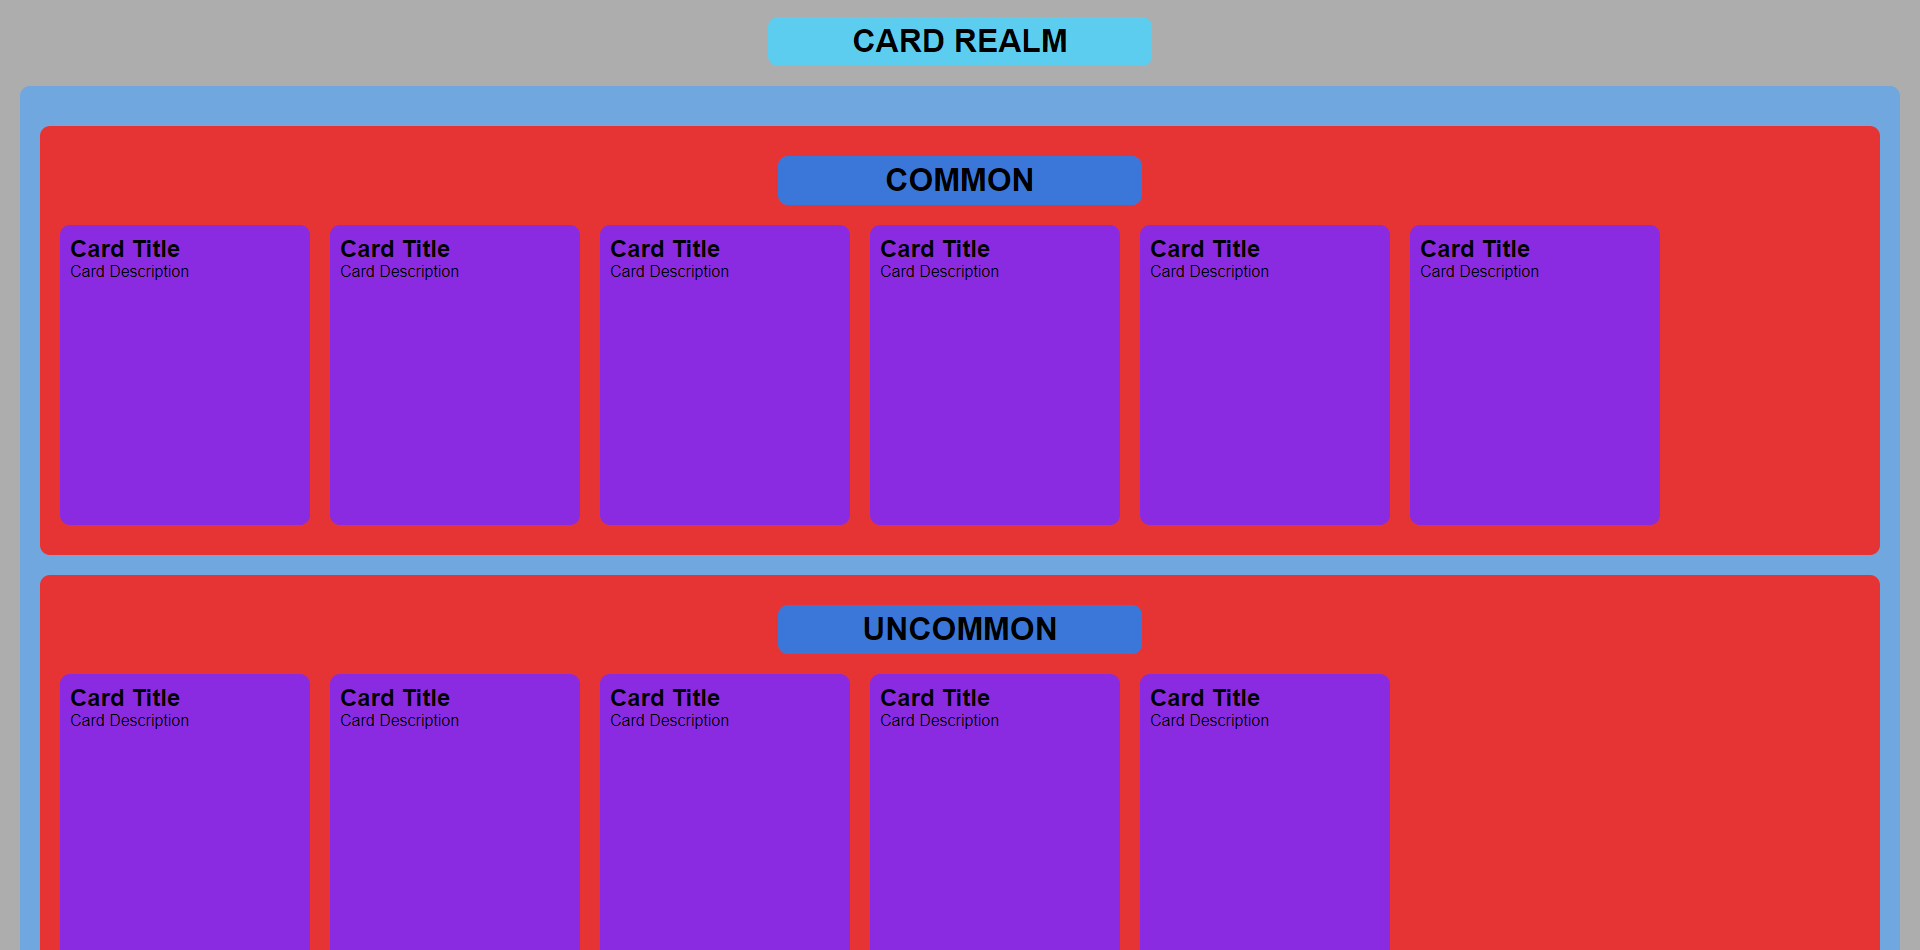
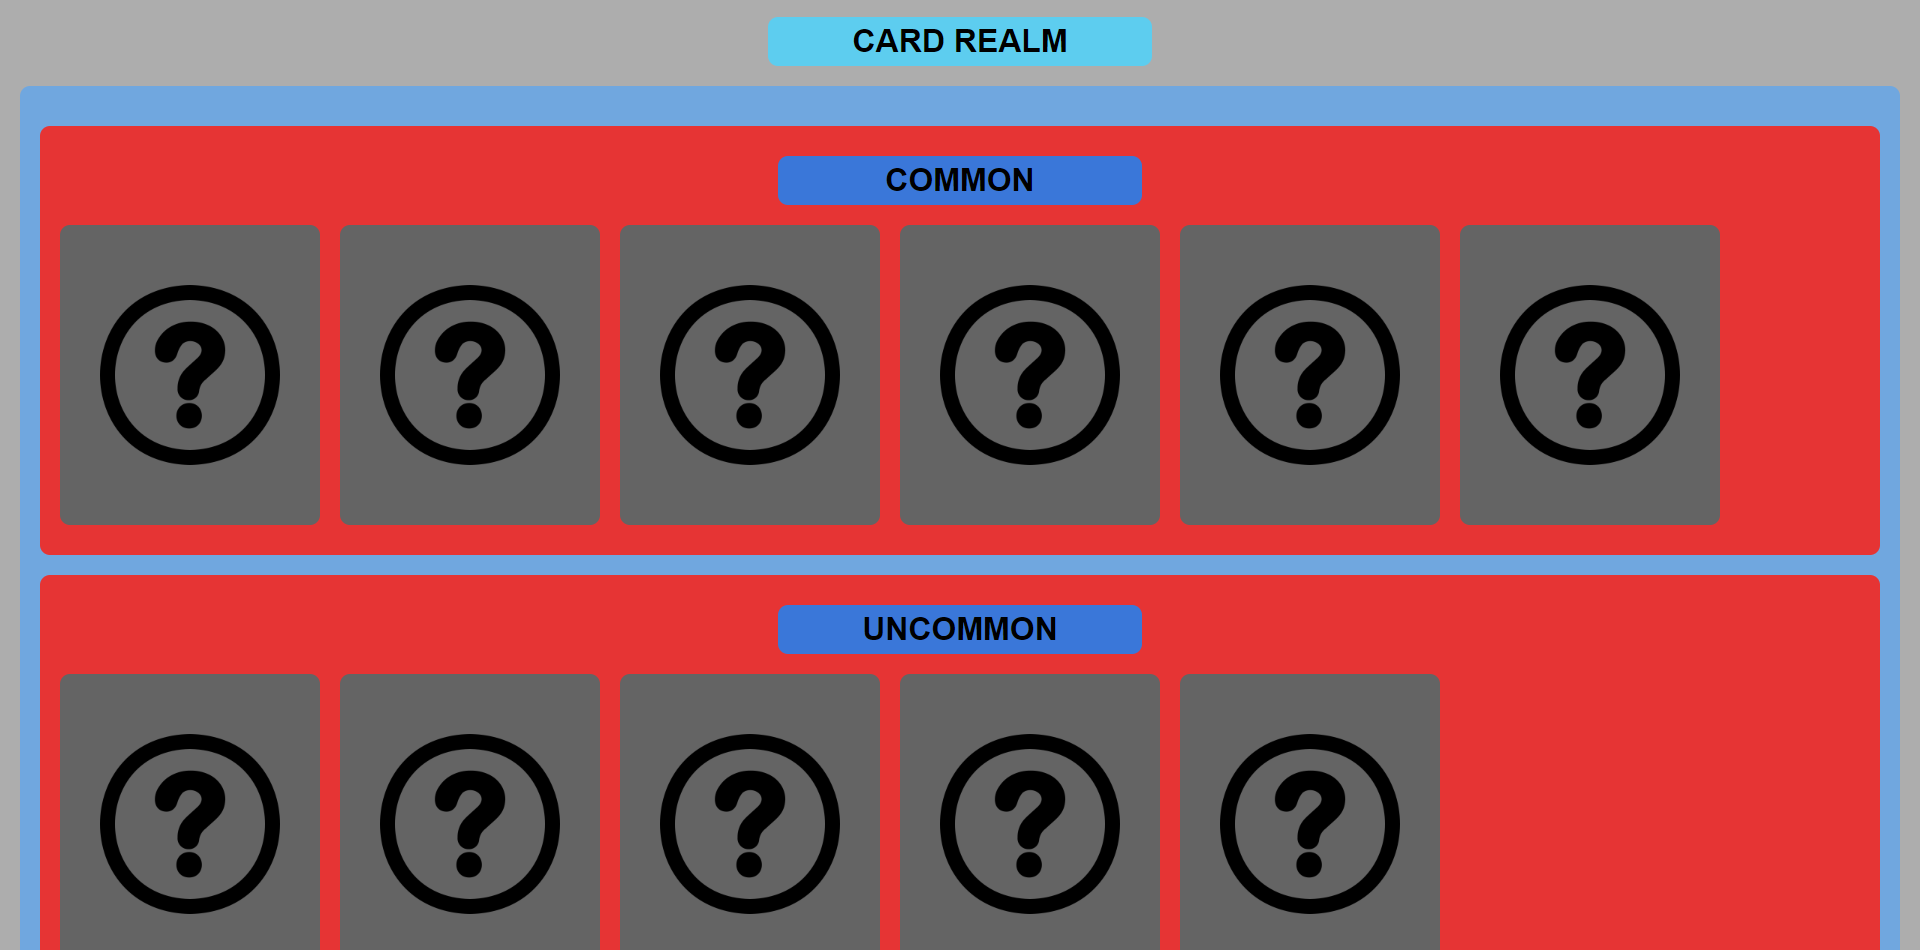
CARD REALM 0.4.0
Add tiersData.json
Add unknown.png
Update App.js
Update index.css
Update index.html

diff --git a/src/components/App.js b/src/components/App.js
@@ -1,35 +1,44 @@
-function App() {
+import { useState } from 'react';
+import TiersData from '../data/tiersData';
+
+export default function App() {
+  const tiers = TiersData.tiers;
+
   return (
     <div className="app">
       <div className="title">CARD REALM</div>
       <div className="collection">
-        <Tier tier="COMMON" cardsNumber={6} />
-        <Tier tier="UNCOMMON" cardsNumber={5} />
-        <Tier tier="RARE" cardsNumber={4} />
-        <Tier tier="SUPER RARE" cardsNumber={3} />
+        {tiers.map((tier) => (<Tier key={tier.id} tier={tier} />))}
       </div>
     </div>
   );
 }
 
-function Tier({ tier, cardsNumber }) {
+function Tier({ tier }) {
   return (
     <div className="tier">
-      <div className="tier-title">{tier}</div>
+      <div className="tier-title">{tier.name}</div>
       <div className="cards">
-        {Array(cardsNumber).fill(<Card />)}
+        {tier.cards.map((card) => (<Card key={tier.id + "-" + card.id} card={card} />))}
       </div>
     </div>
   );
 }
 
-function Card() {
+function Card({ card }) {
+  const [cantity, setCantity] = useState(0);
+  // TODO: Remove the comment
+  // console.log(card.name);
+  // if (card.name === "Card C1" && cantity === 0) {
+  //   setCantity(1);
+  // }
+
   return (
-    <div className="card">
-      <h2 className="card-title">Card Title</h2>
-      <p className="card-description">Card Description</p>
-    </div>
+    <>
+      {cantity !== 0 ?
+        <div className="card card-discovered"><h2 className="card-title">{card.name}</h2></div>
+        :
+        <div className="card card-not-discovered"><img className="card-not-discovered-img" src="/img/unknown.png" alt="Card not discovered" /></div>}
+    </>
   );
 }
-
-export default App;

diff --git a/public/index.html b/public/index.html
@@ -6,7 +6,7 @@
     <meta name="viewport" content="width=device-width, initial-scale=1" />
     <meta name="theme-color" content="#000000" />
     <meta name="Card Realm" content="Web site created using create-react-app" />
-    <link rel="apple-touch-icon" href="%PUBLIC_URL%/card_realm_icon.png" />
+    <link rel="apple-touch-icon" href="%PUBLIC_URL%/img/card_realm_icon.png" />
     <!--
       manifest.json provides metadata used when your web app is installed on a
       user's mobile device or desktop. See https://developers.google.com/web/fundamentals/web-app-manifest/

diff --git a/src/index.css b/src/index.css
@@ -55,10 +55,24 @@ body::-webkit-scrollbar {
 }
 
 .card {
-  background-color: blueviolet;
   margin: 0 10px;
   padding: 10px;
   border-radius: 10px;
-  width: 250px;
+  width: 260px;
   height: 300px;
+  display: flex;
+  justify-content: center;
+  align-items: center;
+}
+
+.card-discovered {
+  background-color: rgb(47, 203, 38);
+}
+
+.card-not-discovered {
+  background-color: rgb(100, 100, 100);
+}
+
+.card-not-discovered-img {
+  width: 80%;
 }

diff --git a/README.md b/README.md
@@ -10,7 +10,7 @@
 
 - **STACK :**
 
-  - **Card Realm** : `0.3.0`
+  - **Card Realm** : `0.4.0`
   - **React** : `18.3.1`
   - **React Dom** : `18.3.1`
 
